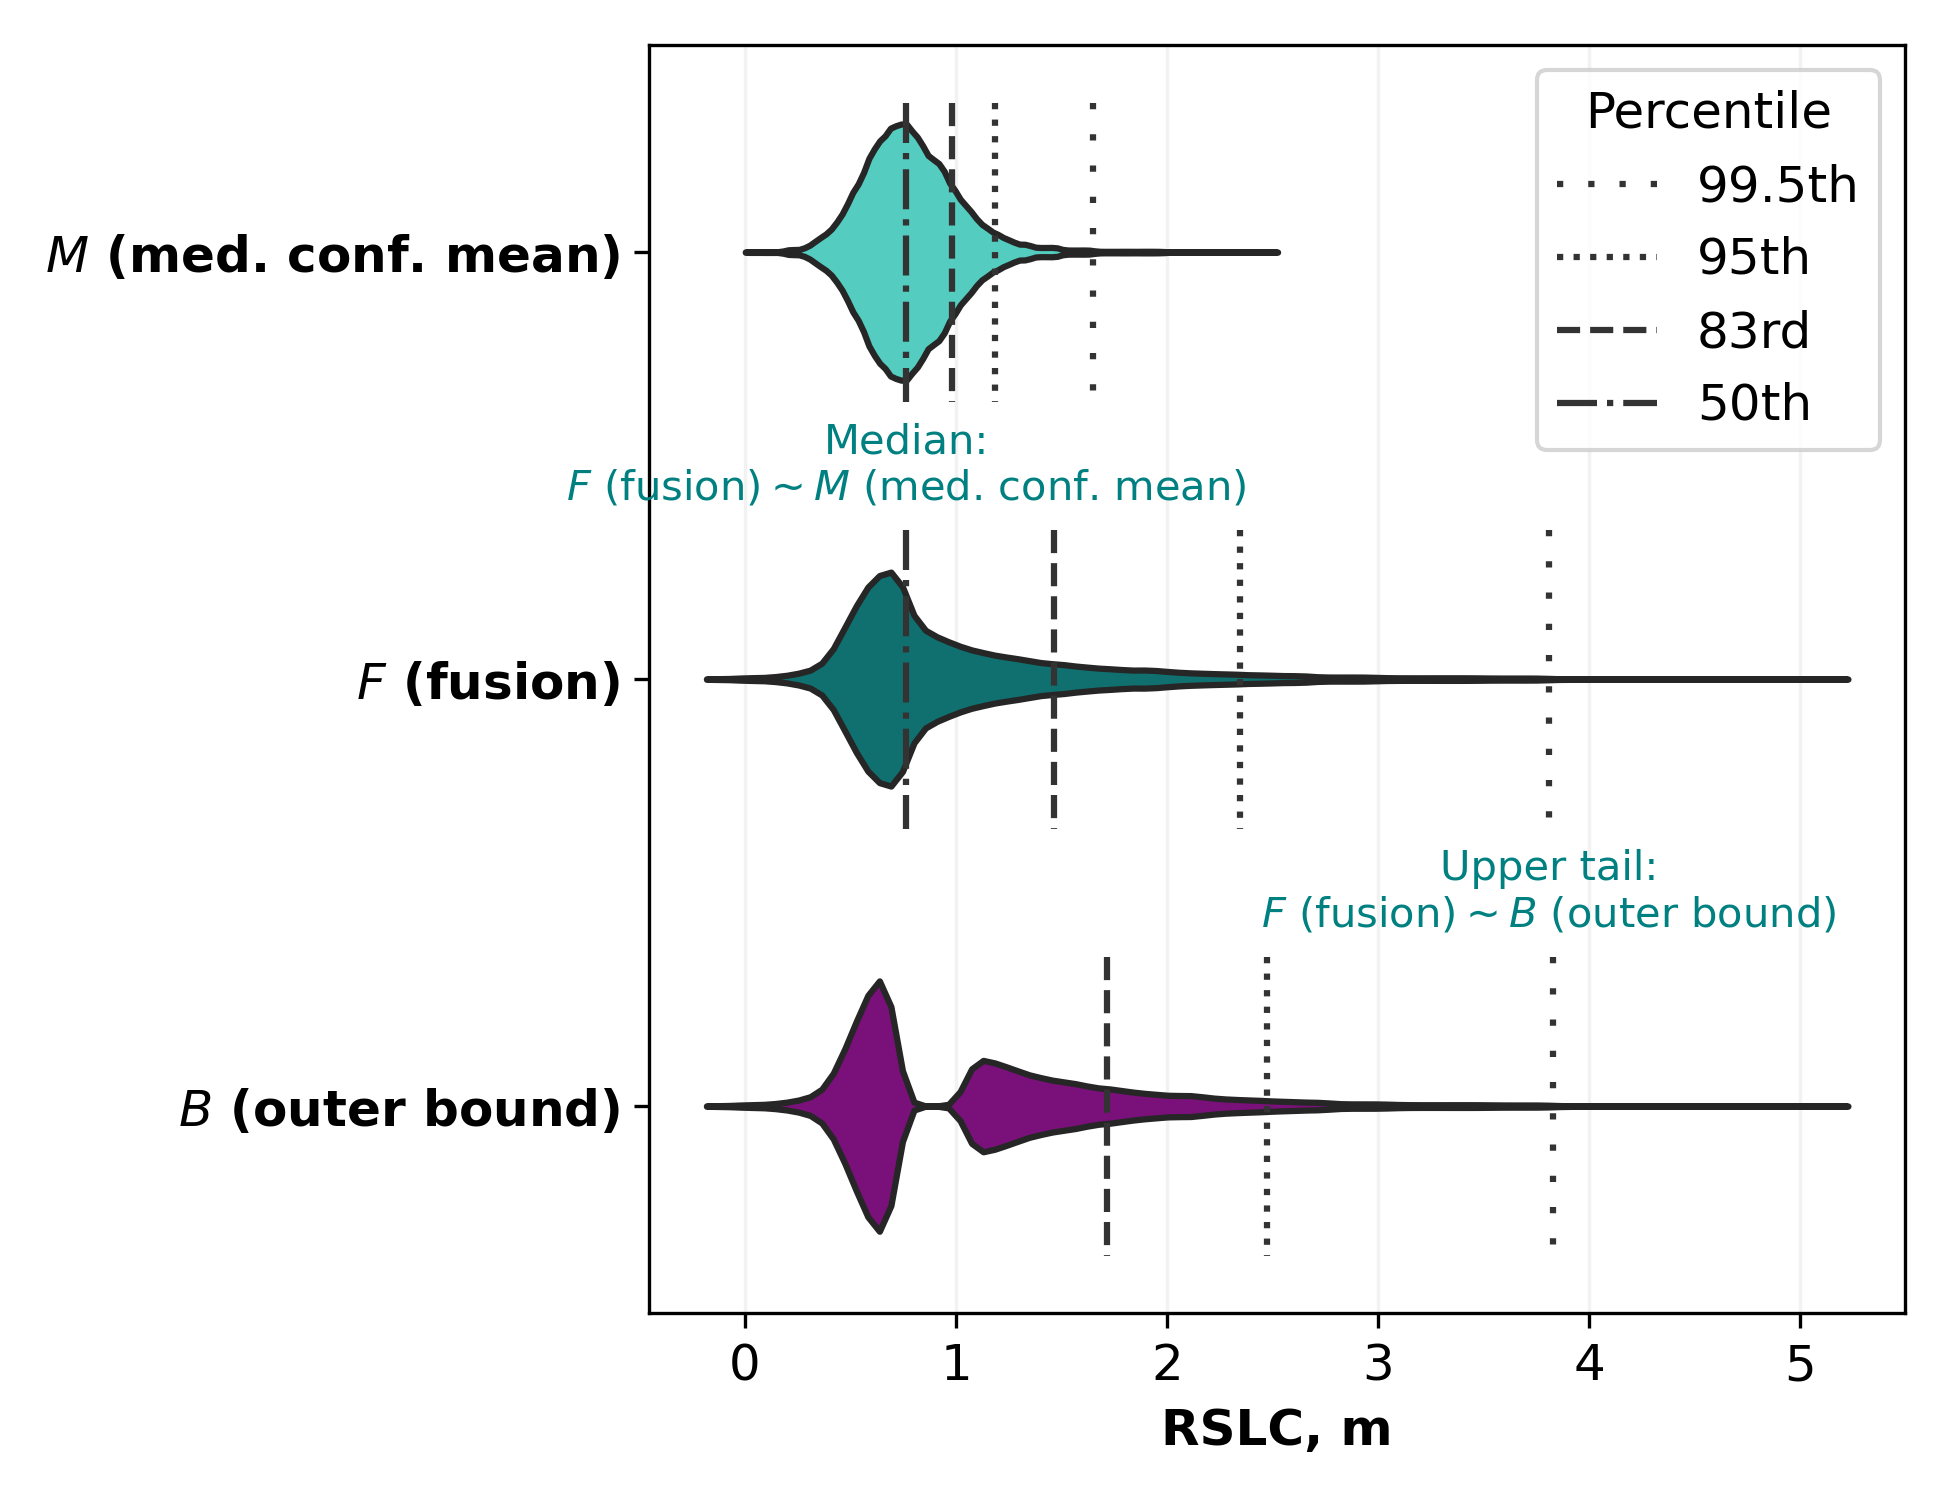
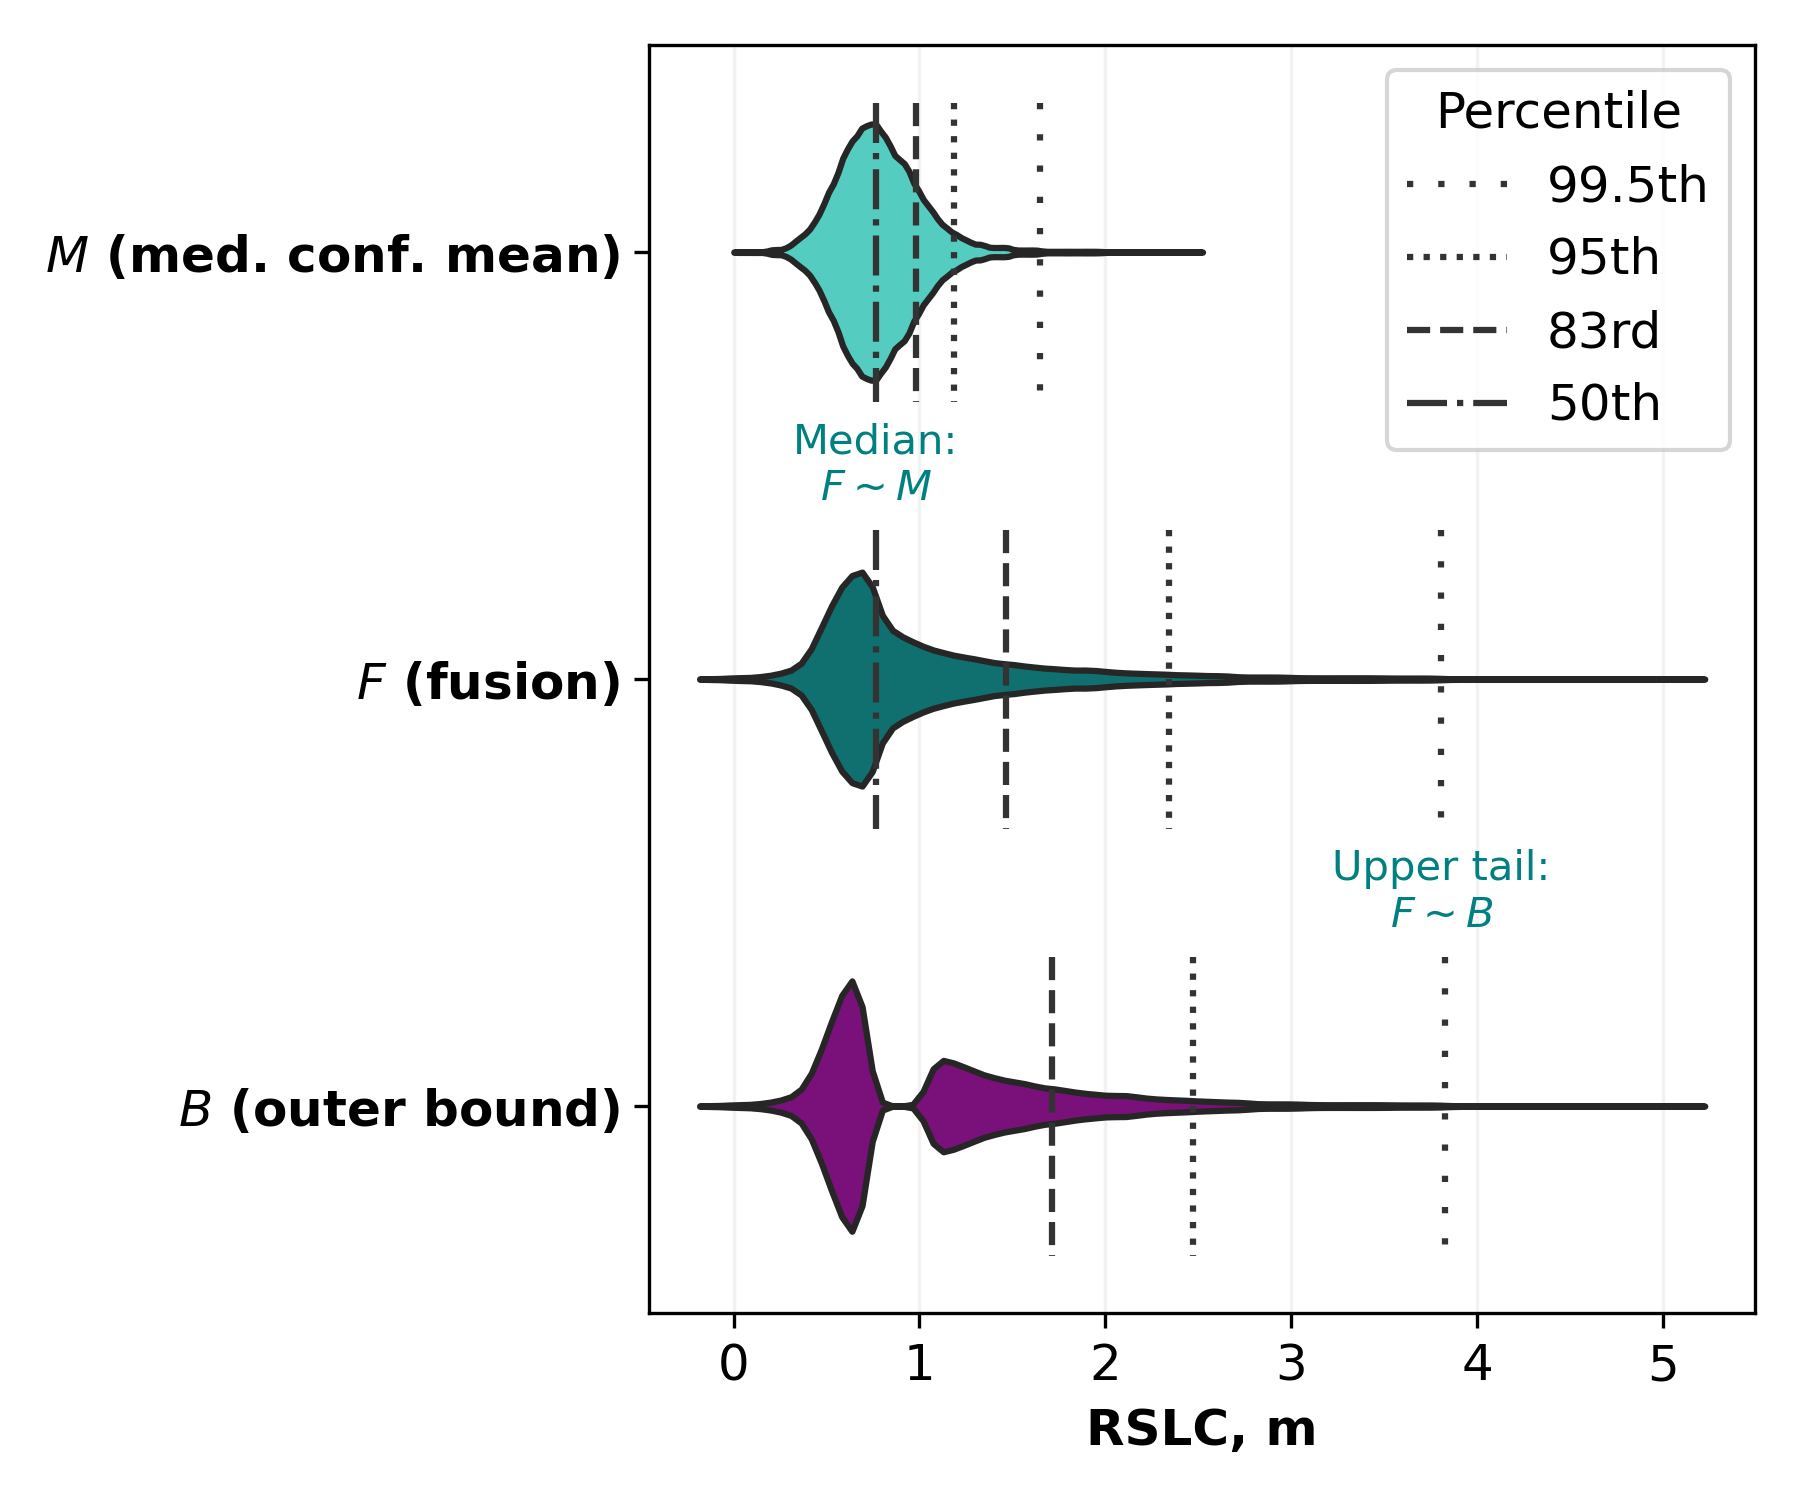
d23a.py plot_rslc_violinplot(): show only workflow symbol in annotations.

diff --git a/d23a.py b/d23a.py
@@ -506,9 +506,11 @@ def plot_rslc_violinplot(workflows=('wf_2e', 'fusion_1e+2e', 'outer'),
             ax.plot([val, val], [i-0.35, i+0.35], color='0.2', linestyle=linestyle, label=label)
     # Annotations (assuming combination & order of workflows follows default)
     if annotations:
-        for p, y, text in zip([50, 99.5], [0.5, 1.5],
-                              [f'Median:\n{WF_LABEL_DICT[workflows[1]]}$\sim${WF_LABEL_DICT[workflows[0]]}',
-                               f'Upper tail:\n{WF_LABEL_DICT[workflows[1]]}$\sim${WF_LABEL_DICT[workflows[2]]}']):
+        for p, y, text in zip(
+                [50, 99.5], [0.5, 1.5],
+                [f'Median:\n{WF_LABEL_DICT[workflows[1]].split()[0]}$\sim${WF_LABEL_DICT[workflows[0]].split()[0]}',
+                 f'Upper tail:\n{WF_LABEL_DICT[workflows[1]].split()[0]}$\sim${WF_LABEL_DICT[workflows[2]].split()[0]}']
+                ):
             qf_da = get_rslc_qf(workflow=workflows[1], rate=rate, scenario=scenario, year=year, gauge=gauge)
             val = qf_da.sel(quantiles=p/100).data
             ax.annotate(text, [val, y], ha='center', va='center', color=WF_COLOR_DICT[workflows[1]])
